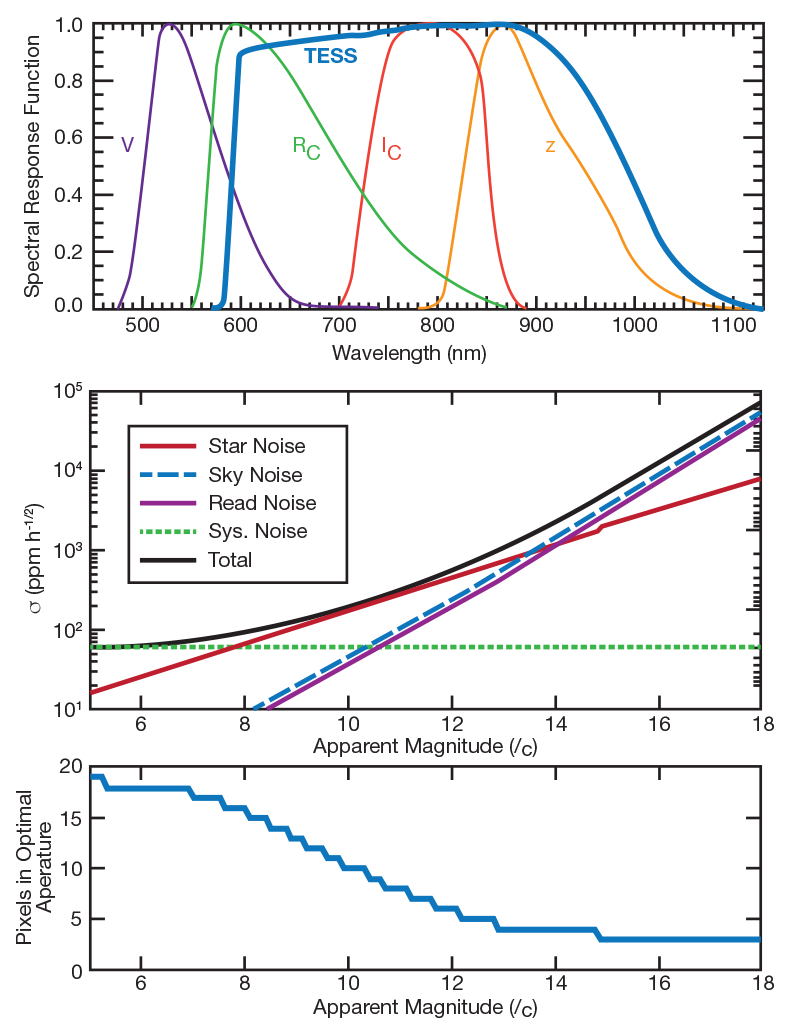
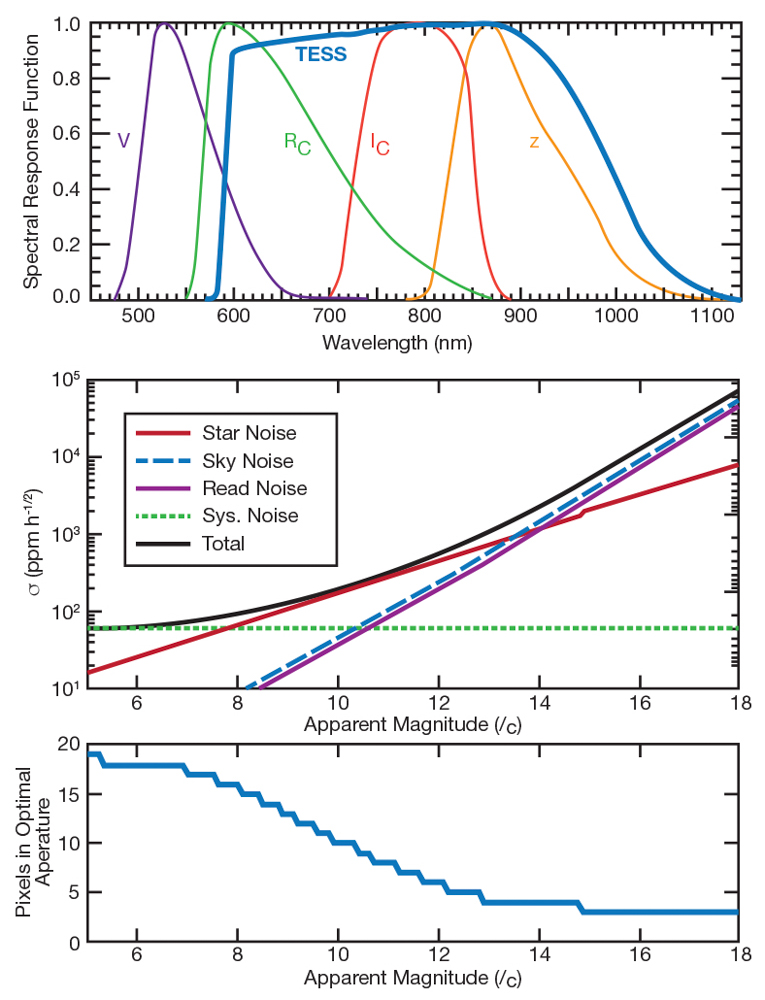
Adding new illustrations, working on technical page

diff --git a/content/pages/observing/observing-technical.md b/content/pages/observing/observing-technical.md
@@ -62,15 +62,31 @@ is between 20% and 62% with a median value of 45%.
 
 ## Photometric performance
 
-<br/>
-<img class="img-responsive" style="max-width:67%;" src="images/giprogram/tess_photometric_performance.png">
-<br/>
-Noise model for TESS photometry. Top: Expected standard deviation of measurements of relative flux, as a function of apparent magnitude, based on 1 hr of data. For the brightest stars, the precision is limited by the systematic noise floor of 60 ppm. For the faintest stars, the precision is limited by noise from the zodiacal light (shown here for an ecliptic latitude of 30°). Over the range of apparent magnitudes IC > 8–13, the photon-counting noise from the star is the dominant source of uncertainty. (Sullivan et al. 2015)
+
 
 
 ### Typical noise levels
 
+A noise model for TESS photometry (figure below) shows the expected standard deviation of measurements of relative flux, as a function of apparent magnitude, based on 1 hr of data (Sullivan et al. 2015). For the brightest stars, the precision is limited by the systematic noise floor of 60 ppm. For the faintest stars, the precision is limited by noise from the zodiacal light (shown here for an ecliptic latitude of 30°). Over the range of apparent magnitudes > 8–13, the photon-counting noise from the star is the dominant source of uncertainty.
 
+<br/>
+<img class="img-responsive" style="max-width:67%;" src="images/giprogram/tess_photometric_performance.png">
+<br/>
+
+
+The photometric precision for a 10th magnitude star is estimated to be about 200 ppm, so TESS will be sensitive to super-Earths around bright stars.
+
+<br/>
+<img class="img-responsive" style="max-width:67%;" src="images/giprogram/tess_noise_200ppm.png">
+<br/>
+*Image Credit: Zach Berta-Thompson with data from Sullivan at al. (2015)*
+
+For fainter stars, such as a 16th magnitude star, the photometric precision drops to about 1%, which is sufficient for many astrophysical studies such as supernovae and stellar variability.
+
+<br/>
+<img class="img-responsive" style="max-width:67%;" src="images/giprogram/tess_noise_1percent.png">
+<br/>
+*Image Credit: Zach Berta-Thompson with data from Sullivan at al. (2015)*
 
 
 

diff --git a/content/pages/data-analysis/data-access.md b/content/pages/data-analysis/data-access.md
@@ -65,7 +65,7 @@ through MAST:
 * False positive working group tables -->
 * Observed targets by quarter
 
-
+The file types are presented in the table below.
 <br/>
 <img class="img-responsive" style="min-width:50%;" src="images/data/tess_mast_products.png">
 <br/>
@@ -93,14 +93,14 @@ A variety of data products from TESS will be archived at MAST for guest investig
 A Full Frame Image (FFI) is a collection of science and collateral pixels observed simultaneously.  A single FFI is the full set of all science and collateral pixels across all CCDs of a given camera.  FFIs will be taken every 30 minutes during science operations, and there will be 1296 FFIs per data set. Each calibrated FFI will be exported as a FITs file. The Cosmic Ray Mitigated (CRM) FFIs are the same as FFIs except they will be collected with the onboard cosmic ray mitigation enabled. 
 
 There are 16 CCDs on the spacecraft, each of which is supported by 4 output channels; each output channel digitizes science pixels over 2048 rows x 512 columns, plus appropriate collateral pixels.
+
 <br/>
-<img class="img-responsive" style="max-width:60%;" src="images/data/tess_ccd.png">
+<img class="img-responsive" style="max-width:67%;" src="images/data/tess_ccd.png">
 <br/>
 
 Focal plane array (FPA) FITS image dimensions. 
-
 <br/>
-<img class="img-responsive" style="max-width:60%;" src="images/data/tess_fpa.png">
+<img class="img-responsive" style="max-width:67%;" src="images/data/tess_fpa.png">
 <br/>
 <br/>
 <img class="img-responsive" style="max-width:80%;" src="images/data/board_drawing_three.png">
@@ -114,7 +114,7 @@ In the binary table, the pixel values are encoded as images. Each element in the
 A sample image from a Kepler mission target pixel file:
 
 <br/>
-<img class="img-responsive" style="max-width:80%;" src="images/data/TPF-FV3.jpg">
+<img class="img-responsive" style="max-width:67%;" src="images/data/TPF-FV3.jpg">
 <br/>
 
 

diff --git a/content/pages/observing/proposing-targets.md b/content/pages/observing/proposing-targets.md
@@ -101,7 +101,7 @@ In accordance with Public Law 113--76, Division B, Title V, Section 532, NASA ca
 
 The TESS Input Catalog (TIC) is a catalog of approximately half a billion objects generated to assist in planning and executing observations and data reduction. The TIC includes detailed information about the characteristics of more than 2 million stars that have been identified as potential targets for the TESS Planet Search. The TIC also includes basic information for optically luminous persistent astronomical objects that may influence the photometry of TESS targets.
 
-Guest Investigators must include the TIC identification number when selecting targets if there is an entry in the TIC. The latest version of the TIC is [available from the MAST](data-access.html). For targets not in the TIC, PIs must provide the coordinates of the source and a TESS magnitude. Software for [estimating TESS magnitudes is available](proposal-tools.html).
+Guest Investigators must include the TIC identification number when selecting targets if there is an entry in the TIC. For targets not in the TIC, GIs must provide the coordinates of the source and a TESS magnitude. Software for [estimating TESS magnitudes is available](proposal-tools.html). The latest version of the TIC is [available from the MAST](http://archive.stsci.edu/tess/all_products.html) and described further in the [Data Access](data-access.html) page. Documentation for the TIC can be found on [arXiv](https://arxiv.org/abs/1706.00495). There will be several deliveries of preliminary versions of the TIC prior to launch to allow testing. A formal delivery of the TIC will occur a few months before launch. 
 
 ## Observability of targets
 We have developed software to determine whether any target can be observed by TESS and for how many sectors. Details are provided on our [proposal tools page](proposal-tools.html)

diff --git a/content/pages/the-mission/science.md b/content/pages/the-mission/science.md
@@ -26,7 +26,7 @@ TESS will observe over 90% of the sky over the 2 year prime mission. TESS will o
 <br/>
 <img class="img-responsive" style="max-width:67%;" src="images/mission/tess_search_space.png">
 <br/>
-
+*Image Credit: Zach Berta-Thompson*
 
 ## Types of stars monitored
 
